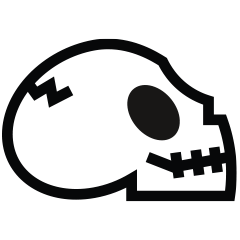
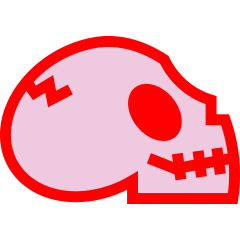
new pix

diff --git a/js/imageTrail.js b/js/imageTrail.js
@@ -1,14 +1,14 @@
 // CUSTOMIZE THESE
 
 const images = [
-  "./assets/project-1/guruguru.png",
-  "./assets/project-1/pompom.png",
   "./assets/project-1/skully.png",
-  "./assets/project-1/eyebow.png",
-  "./assets/project-1/webstickers.png",
-  "./assets/project-1/ika.png",
-  "./assets/project-1/skulltwin.png",
-  "./assets/project-1/speaker.png",
+  "./assets/project-1/bubble.png",
+  "./assets/project-1/bubble2.png",
+  "./assets/project-1/bubble3.png",
+  "./assets/project-1/lips.png",
+  "./assets/project-1/storm.png",
+  "./assets/project-1/ebox.png",
+  "./assets/project-1/horseshoe.png",
 ];
 
 const spacing = 60; // Distance between images on desktop
